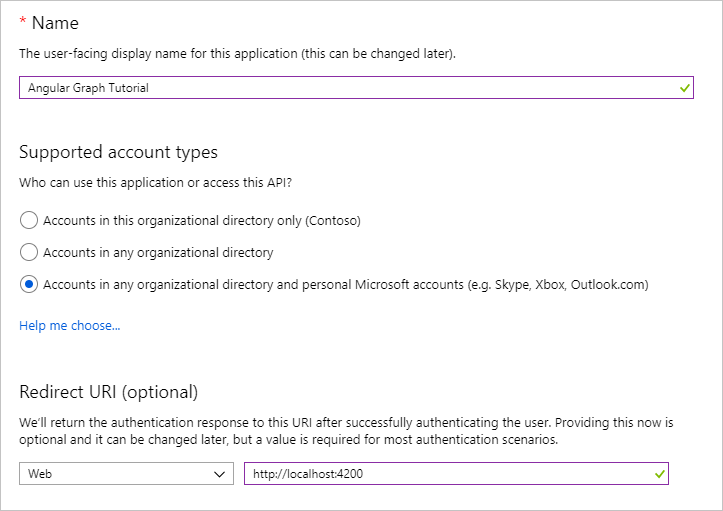
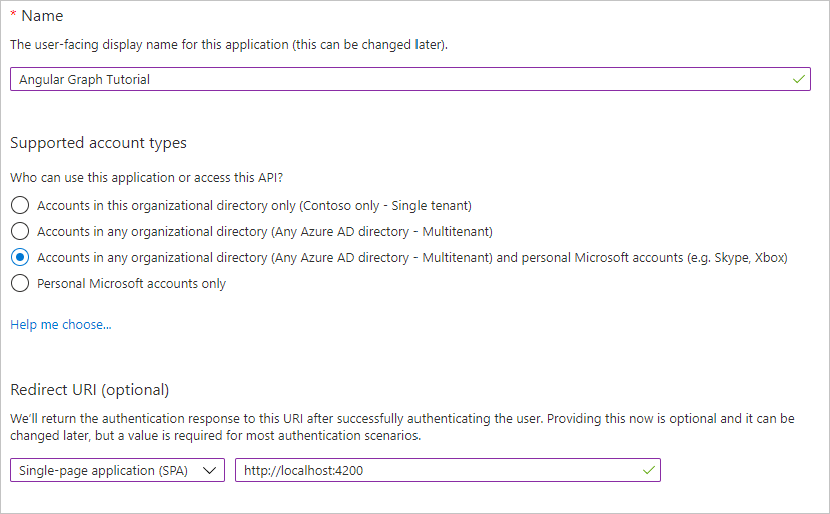
Updated tutorial through step 4

diff --git a/tutorial/snippets/snippets.ts b/tutorial/snippets/snippets.ts
@@ -10,18 +10,19 @@ import { User } from '../user';
   styleUrls: ['./home.component.css']
 })
 export class HomeComponent implements OnInit {
+
   // Is a user logged in?
   get authenticated(): boolean {
     return this.authService.authenticated;
   }
   // The user
-  get user(): User {
+  get user(): User | undefined {
     return this.authService.user;
   }
 
   constructor(private authService: AuthService) { }
 
-  ngOnInit() {}
+  ngOnInit() { }
 
   async signIn(): Promise<void> {
     await this.authService.signIn();

diff --git a/tutorial/02-create-app.md b/tutorial/02-create-app.md
@@ -5,13 +5,14 @@ In this section, you'll create a new Angular project.
 1. Open your command-line interface (CLI), navigate to a directory where you have rights to create files, and run the following commands to install the [Angular CLI](https://www.npmjs.com/package/@angular/cli) tool and create a new Angular app.
 
     ```Shell
-    npm install -g @angular/cli@10.1.7
+    npm install -g @angular/cli@11.2.9
     ng new graph-tutorial
     ```
 
 1. The Angular CLI will prompt for more information. Answer the prompts as follows.
 
     ```Shell
+    ? Do you want to enforce stricter type checking and stricter bundle budgets in the workspace? Yes
     ? Would you like to add Angular routing? Yes
     ? Which stylesheet format would you like to use? CSS
     ```
@@ -38,9 +39,10 @@ Before moving on, install some additional packages that you will use later:
 1. Run the following commands in your CLI.
 
     ```Shell
-    npm install bootstrap@4.5.3 @ng-bootstrap/ng-bootstrap@7.0.0 msal@1.4.2 @azure/msal-angular@1.1.1
-    npm install moment@2.29.1 moment-timezone@0.5.31 windows-iana@4.2.1
-    npm install @microsoft/microsoft-graph-client@2.1.0 @microsoft/microsoft-graph-types@1.24.0
+    npm install bootstrap@4.6.0 @ng-bootstrap/ng-bootstrap@9.1.0
+    npm install @azure/msal-browser@2.14.0 @azure/msal-angular@2.0.0-beta.4
+    npm install moment-timezone@0.5.33 windows-iana@5.0.1
+    npm install @microsoft/microsoft-graph-client@2.2.1 @microsoft/microsoft-graph-types@1.35.0
     ```
 
 1. Run the following command in your CLI to add the Angular localization package (required by ng-bootstrap).
@@ -86,7 +88,7 @@ In this section you'll create the user interface for the app.
 
 1. Create a new file in the **./src/app** folder named **user.ts** and add the following code.
 
-    :::code language="typescript" source="../demo/graph-tutorial/src/app/user.ts" id="user":::
+    :::code language="typescript" source="../demo/graph-tutorial/src/app/user.ts" id="UserSnippet":::
 
 1. Generate an Angular component for the top navigation on the page. In your CLI, run the following command.
 
@@ -109,19 +111,15 @@ In this section you'll create the user interface for the app.
     export class NavBarComponent implements OnInit {
 
       // Should the collapsed nav show?
-      showNav: boolean;
+      showNav: boolean = false;
       // Is a user logged in?
-      authenticated: boolean;
+      authenticated: boolean = false;
       // The user
-      user: User;
+      user?: User = undefined;
 
       constructor() { }
 
-      ngOnInit() {
-        this.showNav = false;
-        this.authenticated = false;
-        this.user = null;
-      }
+      ngOnInit() { }
 
       // Used by the Bootstrap navbar-toggler button to hide/show
       // the nav in a collapsed state
@@ -135,14 +133,15 @@ In this section you'll create the user interface for the app.
         this.user = {
           displayName: 'Adele Vance',
           email: 'AdeleV@contoso.com',
-          avatar: null
+          avatar: '',
+          timeZone: ''
         };
       }
 
       signOut(): void {
         // Temporary
         this.authenticated = false;
-        this.user = null;
+        this.user = undefined;
       }
     }
     ```
@@ -172,23 +171,22 @@ In this section you'll create the user interface for the app.
     export class HomeComponent implements OnInit {
 
       // Is a user logged in?
-      authenticated: boolean;
+      authenticated: boolean = false;
       // The user
-      user: any;
+      user?: User = undefined;
 
       constructor() { }
 
-      ngOnInit() {
-        this.authenticated = false;
-        this.user = {};
-      }
+      ngOnInit() { }
 
       signIn(): void {
         // Temporary
         this.authenticated = true;
         this.user = {
           displayName: 'Adele Vance',
-          email: 'AdeleV@contoso.com'
+          email: 'AdeleV@contoso.com',
+          avatar: '',
+          timeZone: ''
         };
       }
     }
@@ -200,7 +198,7 @@ In this section you'll create the user interface for the app.
 
 1. Create a simple `Alert` class. Create a new file in the **./src/app** directory named **alert.ts** and add the following code.
 
-    :::code language="typescript" source="../demo/graph-tutorial/src/app/alert.ts" id="alert":::
+    :::code language="typescript" source="../demo/graph-tutorial/src/app/alert.ts" id="AlertSnippet":::
 
 1. Create an alert service that the app can use to display messages to the user. In your CLI, run the following command.
 
@@ -220,11 +218,11 @@ In this section you'll create the user interface for the app.
 
 1. Once the command completes, open **./src/app/alerts/alerts.component.ts** and replace its contents with the following.
 
-    :::code language="typescript" source="../demo/graph-tutorial/src/app/alerts/alerts.component.ts" id="alertComponent":::
+    :::code language="typescript" source="../demo/graph-tutorial/src/app/alerts/alerts.component.ts" id="AlertsComponentSnippet":::
 
 1. Open **./src/app/alerts/alerts.component.html** and replace its contents with the following.
 
-    :::code language="html" source="../demo/graph-tutorial/src/app/alerts/alerts.component.html" id="alertHtml":::
+    :::code language="html" source="../demo/graph-tutorial/src/app/alerts/alerts.component.html" id="AlertHtml":::
 
 1. Open **./src/app/app-routing.module.ts** and replace the `const routes: Routes = [];` line with the following code.
 
@@ -238,7 +236,7 @@ In this section you'll create the user interface for the app.
 
 1. Open **./src/app/app.component.html** and replace its entire contents with the following.
 
-    :::code language="html" source="../demo/graph-tutorial/src/app/app.component.html" id="appHtml":::
+    :::code language="html" source="../demo/graph-tutorial/src/app/app.component.html" id="AppHtml":::
 
 1. Add an image file of your choosing named **no-profile-photo.png** in the **./src/assets** directory. This image will be used as the user's photo when the user has no photo in Microsoft Graph.
 

diff --git a/tutorial/04-add-aad-auth.md b/tutorial/04-add-aad-auth.md
@@ -14,13 +14,26 @@ In this exercise you will extend the application from the previous exercise to s
 1. Open **./src/app/app.module.ts** and add the following `import` statements to the top of the file.
 
     ```typescript
-    import { MsalModule } from '@azure/msal-angular';
+    import { IPublicClientApplication,
+             PublicClientApplication,
+             BrowserCacheLocation } from '@azure/msal-browser';
+    import { MsalModule,
+             MsalService,
+             MSAL_INSTANCE } from '@azure/msal-angular';
     import { OAuthSettings } from '../oauth';
     ```
 
-1. Add the `MsalModule` to the `imports` array inside the `@NgModule` declaration, and initialize it with the app ID.
+1. Add the following function below the `import` statements.
 
-    :::code language="typescript" source="../demo/graph-tutorial/src/app/app.module.ts" id="imports" highlight="6-11":::
+    :::code language="typescript" source="../demo/graph-tutorial/src/app/app.module.ts" id="MSALFactorySnippet":::
+
+1. Add the `MsalModule` to the `imports` array inside the `@NgModule` declaration.
+
+    :::code language="typescript" source="../demo/graph-tutorial/src/app/app.module.ts" id="ImportsSnippet" highlight="6":::
+
+1. Add the `MSALInstanceFactory` and `MsalService` to the `providers` array inside the `@NgModule` declaration.
+
+    :::code language="typescript" source="../demo/graph-tutorial/src/app/app.module.ts" id="ProvidersSnippet" highlight="2-5":::
 
 ## Implement sign-in
 
@@ -38,6 +51,7 @@ In this section you'll create an authentication service and implement sign-in an
 
     ```typescript
     import { Injectable } from '@angular/core';
+    import { AccountInfo } from '@azure/msal-browser';
     import { MsalService } from '@azure/msal-angular';
 
     import { AlertsService } from './alerts.service';
@@ -50,25 +64,29 @@ In this section you'll create an authentication service and implement sign-in an
 
     export class AuthService {
       public authenticated: boolean;
-      public user: User;
+      public user?: User;
 
       constructor(
         private msalService: MsalService,
         private alertsService: AlertsService) {
 
         this.authenticated = false;
-        this.user = null;
+        this.user = undefined;
       }
 
       // Prompt the user to sign in and
       // grant consent to the requested permission scopes
       async signIn(): Promise<void> {
-        let result = await this.msalService.loginPopup(OAuthSettings)
+        const result = await this.msalService
+          .loginPopup(OAuthSettings)
+          .toPromise()
           .catch((reason) => {
-            this.alertsService.addError('Login failed', JSON.stringify(reason, null, 2));
+            this.alertsService.addError('Login failed',
+              JSON.stringify(reason, null, 2));
           });
 
         if (result) {
+          this.msalService.instance.setActiveAccount(result.account);
           this.authenticated = true;
           // Temporary placeholder
           this.user = new User();
@@ -79,15 +97,19 @@ In this section you'll create an authentication service and implement sign-in an
       }
 
       // Sign out
-      signOut(): void {
-        this.msalService.logout();
-        this.user = null;
+      async signOut(): Promise<void> {
+        await this.msalService.logout().toPromise();
+        this.user = undefined;
         this.authenticated = false;
       }
 
       // Silently request an access token
       async getAccessToken(): Promise<string> {
-        let result = await this.msalService.acquireTokenSilent(OAuthSettings)
+        const result = await this.msalService
+          .acquireTokenSilent({
+            scopes: OAuthSettings.scopes
+          })
+          .toPromise()
           .catch((reason) => {
             this.alertsService.addError('Get token failed', JSON.stringify(reason, null, 2));
           });
@@ -100,14 +122,14 @@ In this section you'll create an authentication service and implement sign-in an
 
         // Couldn't get a token
         this.authenticated = false;
-        return null;
+        return '';
       }
     }
     ```
 
 1. Open **./src/app/nav-bar/nav-bar.component.ts** and replace its contents with the following.
 
-    :::code language="typescript" source="../demo/graph-tutorial/src/app/nav-bar/nav-bar.component.ts" id="navBarSnippet" highlight="3,15-22,24,26-28,36-38,40-42":::
+    :::code language="typescript" source="../demo/graph-tutorial/src/app/nav-bar/nav-bar.component.ts" id="navBarSnippet" highlight="3,15-22,24,34-36,38-40":::
 
 1. Open **./src/app/home/home.component.ts** and replace its contents with the following.
 
@@ -128,7 +150,7 @@ Right now the authentication service sets constant values for the user's display
 
 1. Add a new function to the `AuthService` class called `getUser`.
 
-    :::code language="typescript" source="../demo/graph-tutorial/src/app/auth.service.ts" id="getUserSnippet":::
+    :::code language="typescript" source="../demo/graph-tutorial/src/app/auth.service.ts" id="GetUserSnippet":::
 
 1. Locate and remove the following code in the `getAccessToken` method that adds an alert to display the access token.
 
@@ -157,7 +179,7 @@ Right now the authentication service sets constant values for the user's display
 
 1. Change the `constructor` for the `AuthService` class to check if the user is already logged in and load their details if so. Replace the existing `constructor` with the following.
 
-    :::code language="typescript" source="../demo/graph-tutorial/src/app/auth.service.ts" id="constructorSnippet" highlight="5-6":::
+    :::code language="typescript" source="../demo/graph-tutorial/src/app/auth.service.ts" id="ConstructorSnippet" highlight="5-7":::
 
 1. Remove the temporary code from the `HomeComponent` class. Open **./src/app/home/home.component.ts** and replace the existing `signIn` function with the following.
 

diff --git a/tutorial/03-register-app.md b/tutorial/03-register-app.md
@@ -12,14 +12,10 @@ In this exercise, you will create a new Azure AD web application registration us
 
     - Set **Name** to `Angular Graph Tutorial`.
     - Set **Supported account types** to **Accounts in any organizational directory and personal Microsoft accounts**.
-    - Under **Redirect URI**, set the first drop-down to `Web` and set the value to `http://localhost:4200`.
+    - Under **Redirect URI**, set the first drop-down to `Single-page application (SPA)` and set the value to `http://localhost:4200`.
 
     ![A screenshot of the Register an application page](./images/aad-register-an-app.png)
 
 1. Select **Register**. On the **Angular Graph Tutorial** page, copy the value of the **Application (client) ID** and save it, you will need it in the next step.
 
     ![A screenshot of the application ID of the new app registration](./images/aad-application-id.png)
-
-1. Select **Authentication** under **Manage**. Locate the **Implicit grant** section and enable **Access tokens** and **ID tokens**. Select **Save**.
-
-    ![A screenshot of the Implicit grant section](./images/aad-implicit-grant.png)

diff --git a/tutorial/01-intro.md b/tutorial/01-intro.md
@@ -15,17 +15,7 @@ You should also have either a personal Microsoft account with a mailbox on Outlo
 - You can [sign up for the Office 365 Developer Program](https://developer.microsoft.com/office/dev-program) to get a free Office 365 subscription.
 
 > [!NOTE]
-> This tutorial was written with Node version 12.18.4. The steps in this guide may work with other versions, but that has not been tested.
-
-## Watch the tutorial
-
-This module has been recorded and is available in the Office Development YouTube channel.
-
-<!-- markdownlint-disable MD033 MD034 -->
-<br/>
-
-> [!VIDEO https://www.youtube-nocookie.com/embed/KUPRTTOUzz8]
-<!-- markdownlint-enable MD033 MD034 -->
+> This tutorial was written with Node version 14.15.0. The steps in this guide may work with other versions, but that has not been tested.
 
 ## Feedback
 
